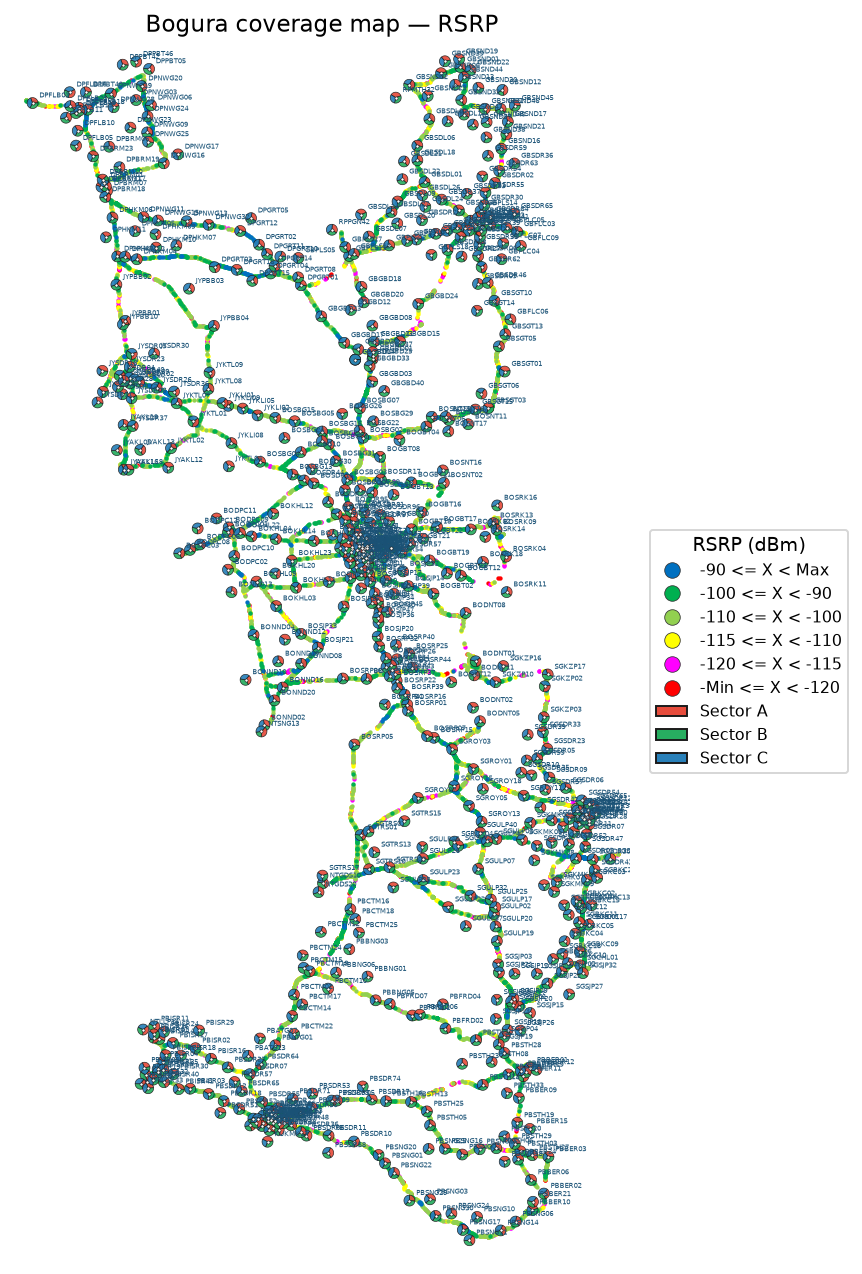
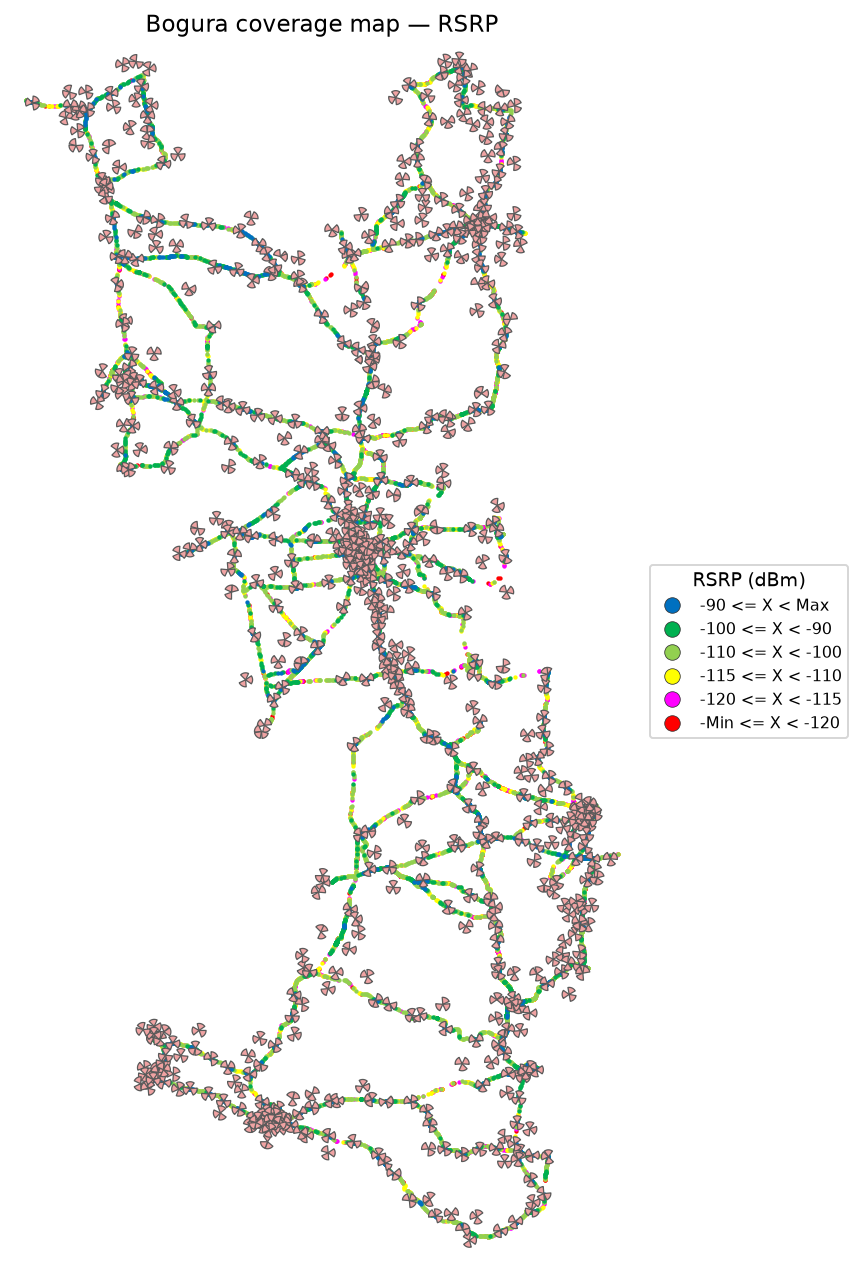
Draw salmon three-blade site pies without labels
Replace filled RGB 360-degree pies and site-name labels with equal-petal
sector widgets (most-common azimuth per sector name) on coverage maps.

Changed region(s): [[0.0302, 0.0306, 0.7239, 0.9796], [0.7541, 0.398, 0.9954, 0.6122], [0.3921, 0.5816, 0.4223, 0.6122]]

diff --git a/merge_and_analyze.py b/merge_and_analyze.py
@@ -13,7 +13,7 @@ import matplotlib
 matplotlib.use("Agg")
 import matplotlib.pyplot as plt
 from matplotlib.lines import Line2D
-from matplotlib.patches import Ellipse, Patch, Polygon
+from matplotlib.patches import Ellipse, Polygon
 import numpy as np
 import pandas as pd
 
@@ -159,13 +159,11 @@ def hide_map_axes(ax) -> None:
         spine.set_visible(False)
 
 
-# Three-sector pie colours (A / B / C). Extra suffixes fall back to gray.
-SECTOR_PIE_COLORS = {
-    "A": "#E74C3C",
-    "B": "#27AE60",
-    "C": "#2980B9",
-}
-SECTOR_PIE_FALLBACK = "#7F8C8D"
+# RF-planner three-blade site widget (equal petals with gaps, one fill colour).
+SITE_PIE_FILL = "#F0A3A3"
+SITE_PIE_EDGE = "#5A5A5A"
+SITE_PIE_BEAMWIDTH_DEG = 70.0
+SITE_PIE_RADIUS_KM = 0.90
 _SITE_SECTORS: pd.DataFrame | None = None
 
 
@@ -176,11 +174,6 @@ def _most_common_azimuth(series: pd.Series) -> float:
         return float("nan")
     rounded = s.round().astype(int)
     return float(rounded.value_counts().idxmax())
-
-
-def _sector_key(name: object) -> str:
-    text = str(name).strip().upper()
-    return text[-1] if text else ""
 
 
 def load_site_sectors(path: Path | None = None) -> pd.DataFrame:
@@ -225,10 +218,7 @@ def load_site_sectors(path: Path | None = None) -> pd.DataFrame:
         )
         .reset_index()
     )
-    grouped["sector_key"] = grouped["Sector"].map(_sector_key)
-    grouped["color"] = grouped["sector_key"].map(lambda k: SECTOR_PIE_COLORS.get(k, SECTOR_PIE_FALLBACK))
-    n_sec = grouped.groupby("SiteName")["Sector"].transform("nunique")
-    grouped["n_sectors"] = n_sec
+    grouped["n_sectors"] = grouped.groupby("SiteName")["Sector"].transform("nunique")
     _SITE_SECTORS = grouped.dropna(subset=["lat", "lon", "azimuth"])
     return _SITE_SECTORS
 
@@ -260,33 +250,18 @@ def _sites_near_drive(sectors: pd.DataFrame, drive: pd.DataFrame, radius_km: flo
     return sectors.loc[keep].copy()
 
 
-def _clockwise_arc(az_start: float, az_end: float, n: int = 22) -> np.ndarray:
+def _clockwise_arc(az_start: float, az_end: float, n: int = 36) -> np.ndarray:
     span = (az_end - az_start) % 360.0
     if span <= 1e-6:
         span = 360.0
     return (az_start + np.linspace(0.0, span, n)) % 360.0
 
 
-def _pie_slice_azimuths(azimuths: list[float]) -> list[tuple[float, float, float]]:
-    """(azimuth, start_az, end_az) clockwise so wedges fill an exact pie."""
-    az = np.array(sorted(a % 360.0 for a in azimuths), dtype=float)
-    n = len(az)
-    if n == 0:
-        return []
-    if n == 1:
-        a = float(az[0])
-        return [(a, (a - 60.0) % 360.0, (a + 60.0) % 360.0)]
-    out = []
-    for i in range(n):
-        prev_az = float(az[i - 1])
-        this_az = float(az[i])
-        next_az = float(az[(i + 1) % n])
-        d_prev = (this_az - prev_az) % 360.0
-        d_next = (next_az - this_az) % 360.0
-        start = (this_az - d_prev / 2.0) % 360.0
-        end = (this_az + d_next / 2.0) % 360.0
-        out.append((this_az, start, end))
-    return out
+def _blade_span(azimuth: float, beamwidth: float = SITE_PIE_BEAMWIDTH_DEG) -> tuple[float, float]:
+    """Equal petal centred on the sector azimuth, with gaps between sectors."""
+    half = float(beamwidth) / 2.0
+    az = float(azimuth) % 360.0
+    return (az - half) % 360.0, (az + half) % 360.0
 
 
 def _wedge_polygon(lat: float, lon: float, az_start: float, az_end: float, radius_km: float) -> np.ndarray:
@@ -299,13 +274,22 @@ def _wedge_polygon(lat: float, lon: float, az_start: float, az_end: float, radiu
     return np.vstack([[lon, lat], ring, [lon, lat]])
 
 
+def _pie_radius_km(ax, default_km: float = SITE_PIE_RADIUS_KM) -> float:
+    xlim = ax.get_xlim()
+    ylim = ax.get_ylim()
+    span_km = min((xlim[1] - xlim[0]) * 111.32, (ylim[1] - ylim[0]) * 111.32)
+    if span_km <= 0:
+        return default_km
+    # ~1.2% of the shorter axis, large enough to read three blades on the full map.
+    return float(np.clip(span_km * 0.012, 0.35, 1.15))
+
+
 def draw_site_pies(
     ax,
     drive: pd.DataFrame,
-    radius_km: float = 0.9,
-    label_sites: bool = True,
+    radius_km: float | None = None,
 ) -> list:
-    """Draw exact three-sector pies (grouped by sector name) on a coverage map."""
+    """Draw salmon three-blade site pies (grouped by sector name). No labels."""
     sectors = load_site_sectors()
     if sectors.empty:
         return []
@@ -315,53 +299,27 @@ def draw_site_pies(
     vis = _sites_near_drive(vis, drive, radius_km=2.5)
     if vis.empty:
         return []
-    extras = []
-    for site_name, part in vis.groupby("SiteName", sort=False):
-        part = part.drop_duplicates(subset=["Sector"]).sort_values("azimuth")
+    radius = _pie_radius_km(ax) if radius_km is None else float(radius_km)
+    for _site_name, part in vis.groupby("SiteName", sort=False):
+        part = part.drop_duplicates(subset=["Sector"])
         lat = float(part["lat"].median())
         lon = float(part["lon"].median())
-        slices = _pie_slice_azimuths(part["azimuth"].tolist())
-        for (_, row), (_az, start, end) in zip(part.iterrows(), slices):
-            poly = _wedge_polygon(lat, lon, start, end, radius_km)
+        for az in part["azimuth"].tolist():
+            start, end = _blade_span(float(az))
+            poly = _wedge_polygon(lat, lon, start, end, radius)
             ax.add_patch(
                 Polygon(
                     poly,
                     closed=True,
-                    facecolor=row["color"],
-                    edgecolor="#1B1B1B",
-                    linewidth=0.35,
+                    facecolor=SITE_PIE_FILL,
+                    edgecolor=SITE_PIE_EDGE,
+                    linewidth=0.65,
+                    joinstyle="round",
                     zorder=3,
-                    alpha=0.92,
+                    alpha=1.0,
                 )
             )
-        ax.plot(
-            lon,
-            lat,
-            marker="o",
-            markersize=1.6,
-            color="white",
-            markeredgecolor="#1B1B1B",
-            markeredgewidth=0.3,
-            zorder=4,
-        )
-        if label_sites:
-            ax.text(
-                lon + 0.010,
-                lat + 0.006,
-                str(site_name),
-                fontsize=3.4,
-                color="#1A5276",
-                ha="left",
-                va="bottom",
-                zorder=4,
-                clip_on=True,
-            )
-    extras = [
-        Patch(facecolor=SECTOR_PIE_COLORS["A"], edgecolor="#1B1B1B", label="Sector A"),
-        Patch(facecolor=SECTOR_PIE_COLORS["B"], edgecolor="#1B1B1B", label="Sector B"),
-        Patch(facecolor=SECTOR_PIE_COLORS["C"], edgecolor="#1B1B1B", label="Sector C"),
-    ]
-    return extras
+    return []
 
 
 def plot_discrete_coverage_map(

diff --git a/README.md b/README.md
@@ -91,29 +91,29 @@ RSRP / RSRQ / SINR coverage maps use the Page 1 legend:
 
 Throughput (PDCP DL) and CQI are on the same legend sheet but are not in these IDLE logs, so those maps are not drawn yet.
 
-**Coverage maps** overlay physical sites from `Physical_Site_Database_V1.0.xlsb` as three-sector pies. Cells are grouped by sector name; if a sector has several azimuths, the pie uses the most common one.
+**Coverage maps** overlay physical sites from `Physical_Site_Database_V1.0.xlsb` as salmon three-blade pies (no site-name labels). Cells are grouped by sector name; if a sector has several azimuths, the blade uses the most common one.
 
 **Bad Spot Analysis** circles **every dense poor stretch** on the full drive maps (RSRP < −115 dBm, RSRQ < −15 dB, SINR < 0 dB). Numbered ovals match the table. Site pies are drawn on those maps too.
 
-## Download Excel report (v1.14)
+## Download Excel report (v1.15)
 
-**v1.14 (current):** https://github.com/miles4482/Drive-test-Log-Analysis-and-Plot/raw/cursor/merge-bogura-drive-test-logs-7dfb/output/Bogura_DriveTest_Report_v1.14.xlsx
+**v1.15 (current):** https://github.com/miles4482/Drive-test-Log-Analysis-and-Plot/raw/cursor/merge-bogura-drive-test-logs-7dfb/output/Bogura_DriveTest_Report_v1.15.xlsx
 
 Latest copy: https://github.com/miles4482/Drive-test-Log-Analysis-and-Plot/raw/cursor/merge-bogura-drive-test-logs-7dfb/output/Bogura_DriveTest_Report.xlsx
 
-GitHub file page: https://github.com/miles4482/Drive-test-Log-Analysis-and-Plot/blob/cursor/merge-bogura-drive-test-logs-7dfb/output/Bogura_DriveTest_Report_v1.14.xlsx
+GitHub file page: https://github.com/miles4482/Drive-test-Log-Analysis-and-Plot/blob/cursor/merge-bogura-drive-test-logs-7dfb/output/Bogura_DriveTest_Report_v1.15.xlsx
 
 ## Excel report
 
-`output/Bogura_DriveTest_Report_v1.14.xlsx` (also saved as `output/Bogura_DriveTest_Report.xlsx`)
+`output/Bogura_DriveTest_Report_v1.15.xlsx` (also saved as `output/Bogura_DriveTest_Report.xlsx`)
 
 Sheet banners do not include the file version. The filename still carries the version when the report is updated.
 
 | Sheet | Contents |
 | --- | --- |
 | Cover | IDLE Mode bar, dataset/KPI tables on the left, histograms on the right, Active Mode bar at the bottom |
-| RSRP / RSRQ / SINR | IDLE Mode coverage map with three-sector site pies on the left; Active Mode placeholder on the right |
-| Bad Spot Analysis | Full-drive IDLE maps with poor-stretch ovals and three-sector site pies |
+| RSRP / RSRQ / SINR | IDLE Mode coverage map with three-blade site pies on the left; Active Mode placeholder on the right |
+| Bad Spot Analysis | Full-drive IDLE maps with poor-stretch ovals and three-blade site pies |
 | RSRP vs KPIs | RSRP vs SINR, RSRP vs RSRQ, dual-axis combined chart, and scatter plots with trend |
 | Sample Log | Evenly spaced subset of the merged samples |
 
